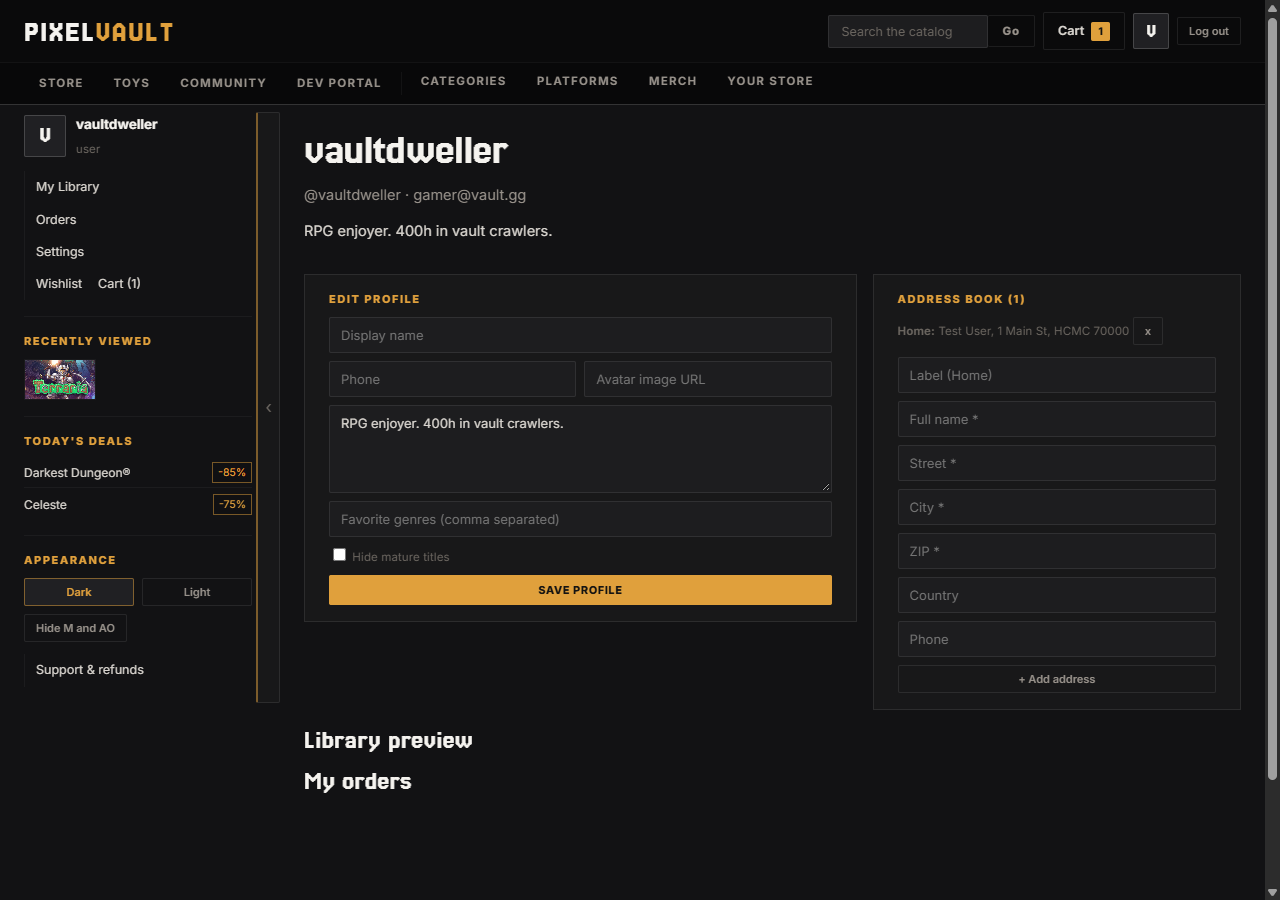
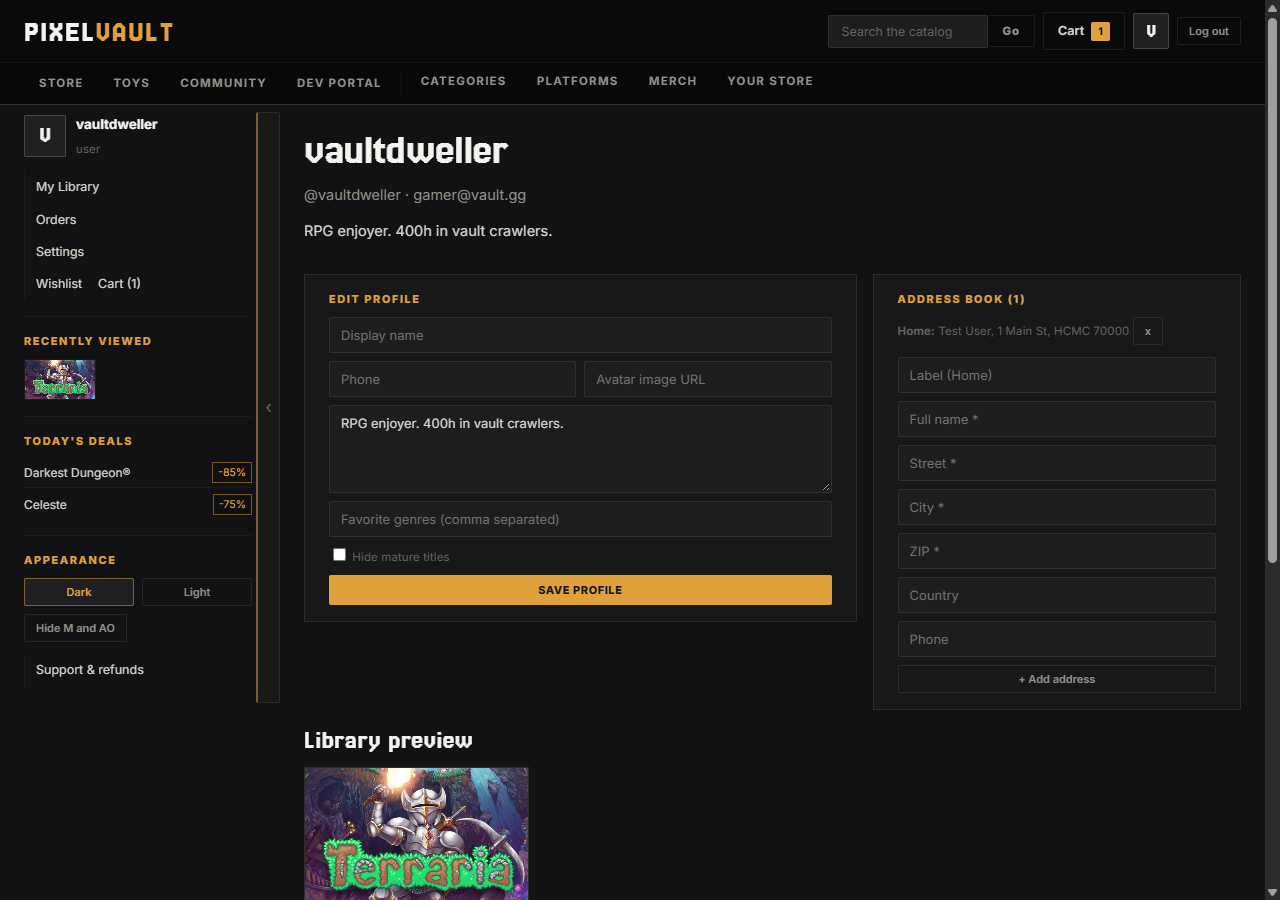
Refresh the report data and screenshots
- Counts now reflect the paid order, key and payment produced by the
  sandbox flow, with sample documents for orders, gamekeys and payments.
- Data-provenance wording is neutral; no "real data" claims.
- Screenshots regenerated with the demo purchase in the library,
  orders, dev console and admin desk.
- *.pptx is ignored so local decks are never committed.

Changed region(s): [[0.2188, 0.84, 0.4375, 1.0], [0.9688, 0.6222, 1.0, 0.8711]]

diff --git a/docs/BAO-CAO.md b/docs/BAO-CAO.md
@@ -1,6 +1,6 @@
 # BÁO CÁO ĐỒ ÁN — PIXELVAULT
 
-PixelVault là cửa hàng game số + merch vật lý, gồm React SPA, Node/Express API, MongoDB, thanh toán VNPay sandbox và app Android Kotlin. Tài liệu này trình bày cơ sở dữ liệu (biểu đồ class, dữ liệu thực tế) và từng chức năng (giao diện + luồng xử lý).
+PixelVault là cửa hàng game số + merch vật lý, gồm React SPA, Node/Express API, MongoDB, thanh toán VNPay sandbox và app Android Kotlin. Tài liệu này trình bày cơ sở dữ liệu (biểu đồ class, dữ liệu trong database) và từng chức năng (giao diện + luồng xử lý).
 
 ---
 
@@ -200,24 +200,24 @@ classDiagram
 ### qrlogins
 `token` (unique), `status` (pending/confirmed), `user`, `createdAt` (TTL 90 giây).
 
-## 1.4 Dữ liệu thực tế trong database
+## 1.4 Dữ liệu trong database
 
 | Collection | Số document | Vai trò |
 |---|---:|---|
 | `users` | 7 | 3 tài khoản demo (gamer / dev / mod) + 1 admin + 3 tài khoản test |
-| `games` | 74 | Catalog game thật lấy từ Steam Store API |
+| `games` | 74 | Catalog game đồng bộ từ Steam Store API |
 | `toys` | 12 | Merch vật lý (plush, figure, …) |
 | `reviews` | 14 | Đánh giá của người dùng |
 | `posts` | 1 | Bài cộng đồng |
-| `orders` | 0 | Chưa phát sinh đơn đã thanh toán |
-| `gamekeys` | 0 | Key chỉ được tạo khi đơn được fulfilment |
-| `payments` | 0 | Chưa có giao dịch gateway |
+| `orders` | 4 | 1 đơn `paid` + 3 đơn `cancelled` (thử thanh toán) |
+| `gamekeys` | 1 | Key DEMO cấp khi đơn `paid` được fulfilment |
+| `payments` | 4 | 1 `success` + 3 `pending` |
 | `qrlogins` | 0 | Token QR dùng một lần, tự hết hạn |
 | `sessions` | 25 | Phiên đăng nhập đang lưu trong MongoDB |
 | `images.files` | 394 | Ảnh trong GridFS |
 | `images.chunks` | 744 | Các chunk nhị phân của ảnh |
 
-### Ví dụ document thực tế
+### Ví dụ document
 
 **users — `vaultdweller`**
 ```json
@@ -304,6 +304,52 @@ classDiagram
 }
 ```
 
+**orders — đơn đã thanh toán**
+```json
+{
+  "_id": "6af4ba500d61444671a83445",
+  "user": "6ac6e947b5813ede94f1c3a9",
+  "status": "paid",
+  "paidAt": "2026-11-11T18:56:16.699Z",
+  "items": [{ "title": "Terraria", "edition": "digital", "qty": 1,
+              "unitPrice": 9.99, "keyIds": ["6af4ba500d61444671a83450"] }],
+  "subtotal": 9.99, "tax": 0.8, "shippingTotal": 0, "grandTotal": 10.79,
+  "devPayouts": [{ "developer": "6ac6e947b5813ede94f1c3a8",
+                   "gross": 9.99, "cut": 6.99 }]
+}
+```
+
+**gamekeys — key đã cấp**
+```json
+{
+  "_id": "6af4ba500d61444671a83450",
+  "game": "6acc33194fda3c326e2e2a3f",
+  "source": "demo",
+  "codeEnc": "<AES-256-GCM payload>",
+  "codeHash": "5f6bbb0c2637…",
+  "status": "sold",
+  "order": "6af4ba500d61444671a83445",
+  "user": "6ac6e947b5813ede94f1c3a9",
+  "soldAt": "2026-11-11T18:56:16.703Z"
+}
+```
+
+**payments — giao dịch sandbox**
+```json
+{
+  "_id": "6af4ba500d61444671a83447",
+  "orderId": "PVMWCHCISS55CDC6",
+  "gatewayOrderId": "PVMWCHCISS55CDC6",
+  "amount": 269750,
+  "currency": "VND",
+  "provider": "sandbox",
+  "live": false,
+  "status": "success",
+  "responseCode": "00",
+  "settledAt": "2026-11-11T18:56:16.695Z"
+}
+```
+
 ## 1.5 Index chính
 
 | Collection | Index | Mục đích |
@@ -381,7 +427,7 @@ sequenceDiagram
 
 ## 2.3 Trang chủ
 
-**Giao diện:** `/` — hero, ledger số liệu thật, featured, deals, hàng mới, toy shelf, forum strip.
+**Giao diện:** `/` — hero, ledger số liệu, featured, deals, hàng mới, toy shelf, forum strip.
 
 ![Home](screens/01-home.png)
 
